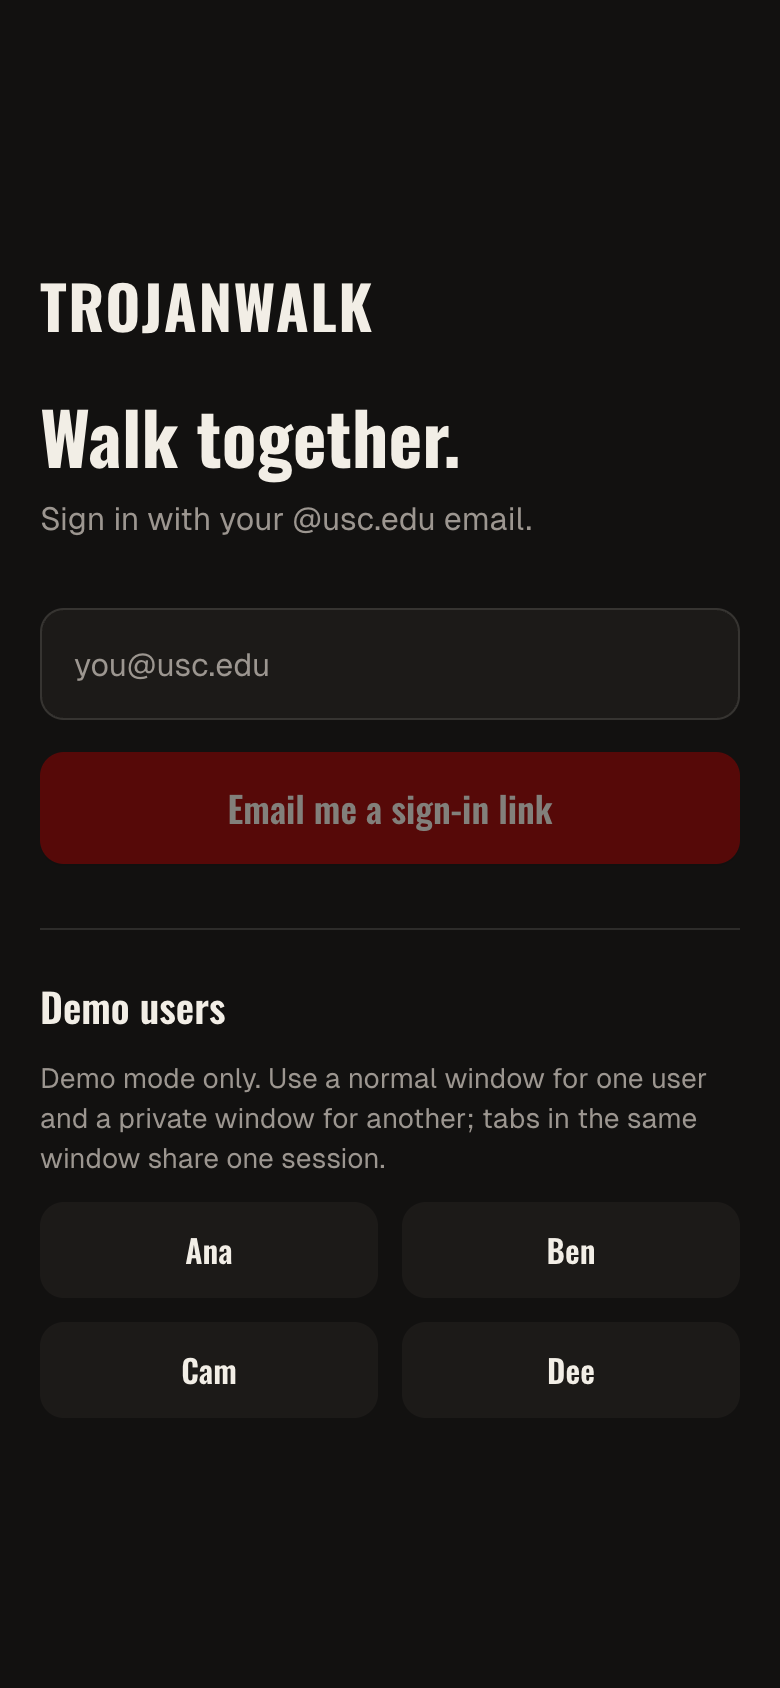
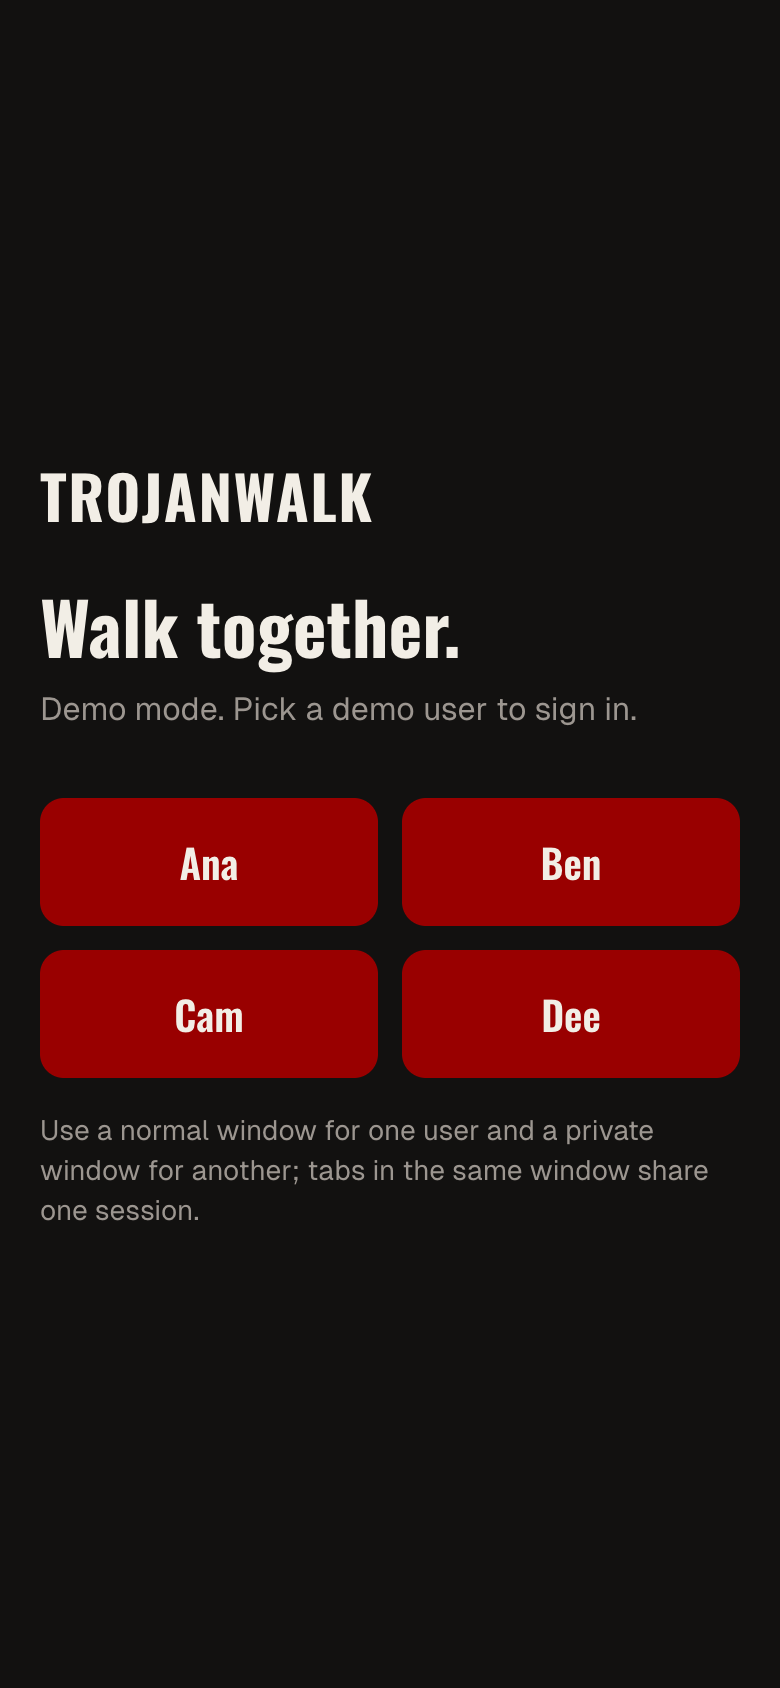
latest auth

diff --git a/app/(auth)/login/page.tsx b/app/(auth)/login/page.tsx
@@ -1,43 +1,62 @@
 import { LoginForm } from "./login-form";
 import { DEMO_USERS } from "@/lib/demo-users";
 
+// Read per request (not at build time) so the Vercel env var decides which sign-in the page shows.
+export const dynamic = "force-dynamic";
+
 export default function LoginPage({ searchParams }: { searchParams: { error?: string } }) {
+  const demoOn = process.env.DEMO_MODE === "true";
+  const demoReady = demoOn && !!process.env.DEMO_PASSWORD;
+
   return (
     <div className="mx-auto flex min-h-screen w-full max-w-[430px] flex-col justify-center gap-8 px-5 py-8">
       <div>
         <h1 className="font-display text-3xl font-bold tracking-wide">TROJANWALK</h1>
-        <h2 className="mt-6 font-display text-4xl font-bold leading-tight">
-          Walk together.
-        </h2>
-        <p className="mt-2 text-dim">Sign in with your @usc.edu email.</p>
-      </div>
-      {searchParams.error === "link" && (
-        <p className="rounded-[12px] border border-cardinal bg-surface px-4 py-3 text-sm">
-          That sign-in link expired or was already used. Request a new one.
+        <h2 className="mt-6 font-display text-4xl font-bold leading-tight">Walk together.</h2>
+        <p className="mt-2 text-dim">
+          {demoOn ? "Demo mode. Pick a demo user to sign in." : "Sign in with your @usc.edu email."}
         </p>
-      )}
-      <LoginForm />
-      {process.env.DEMO_MODE === "true" && (
-        <section className="flex flex-col gap-3 border-t border-border pt-6">
-          <h3 className="font-display text-xl font-semibold">Demo users</h3>
-          <p className="text-sm text-dim">
-            Demo mode only. Use a normal window for one user and a private window for another;
-            tabs in the same window share one session.
-          </p>
-          <div className="grid grid-cols-2 gap-3">
-            {DEMO_USERS.map((u) => (
-              <form key={u.email} action="/api/dev-login" method="post">
-                <input type="hidden" name="email" value={u.email} />
-                <button
-                  type="submit"
-                  className="h-12 w-full rounded-[12px] bg-surface font-display text-base font-semibold text-ink"
-                >
-                  {u.name}
-                </button>
-              </form>
-            ))}
-          </div>
+      </div>
+
+      {demoOn ? (
+        // Demo mode: the demo buttons are the only sign-in. No email field, no magic link.
+        <section className="flex flex-col gap-4" aria-label="Demo users">
+          {demoReady ? (
+            <>
+              <div className="grid grid-cols-2 gap-3">
+                {DEMO_USERS.map((u) => (
+                  <form key={u.email} action="/api/dev-login" method="post">
+                    <input type="hidden" name="email" value={u.email} />
+                    <button
+                      type="submit"
+                      className="h-16 w-full rounded-[12px] bg-cardinal font-display text-xl font-semibold text-ink"
+                    >
+                      {u.name}
+                    </button>
+                  </form>
+                ))}
+              </div>
+              <p className="text-sm text-dim">
+                Use a normal window for one user and a private window for another; tabs in the same
+                window share one session.
+              </p>
+            </>
+          ) : (
+            <p className="rounded-[12px] border border-cardinal bg-surface px-4 py-3 text-sm">
+              Demo mode is on but <code>DEMO_PASSWORD</code> is not set, so demo sign-in can&apos;t work. Set
+              it in the environment and redeploy.
+            </p>
+          )}
         </section>
+      ) : (
+        <>
+          {searchParams.error === "link" && (
+            <p className="rounded-[12px] border border-cardinal bg-surface px-4 py-3 text-sm">
+              That sign-in link expired or was already used. Request a new one.
+            </p>
+          )}
+          <LoginForm />
+        </>
       )}
     </div>
   );
